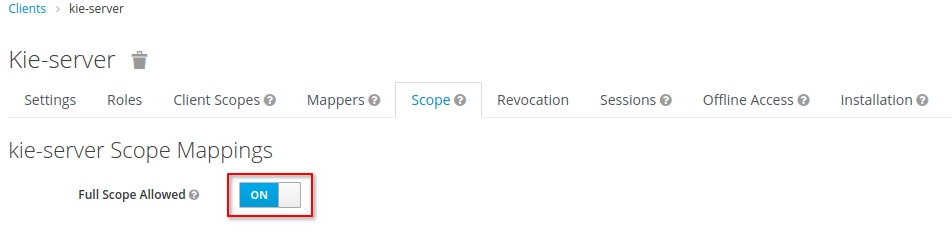
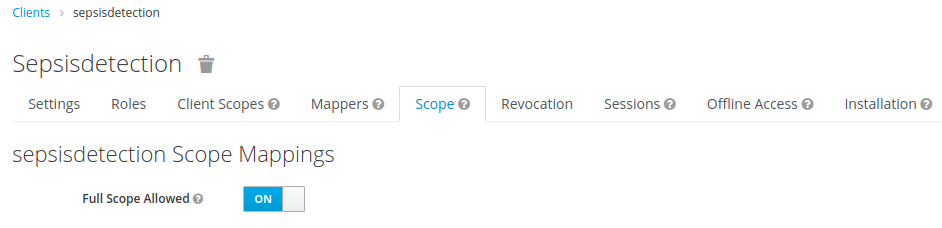
OIDC_enabled_workflow_apps.adoc:  even more additions

diff --git a/sepsisdetection-ui/src/assets/js/env.js b/sepsisdetection-ui/src/assets/js/env.js
@@ -4,7 +4,7 @@
 
   window._env.KEYCLOAK_URL = "http://localhost:4080";
   window._env.SSO_REALM = "kieRealm";
-  window._env.SSO_CLIENT = "kie-server";
+  window._env.SSO_CLIENT = "sepsisdetection";
   window._env.KIE_SERVER_URL = "http://localhost:9080";
   window._env.KIE_SERVER_USERID = 'kieserver';
   window._env.KIE_SERVER_PASSWORD = 'kieserver';
